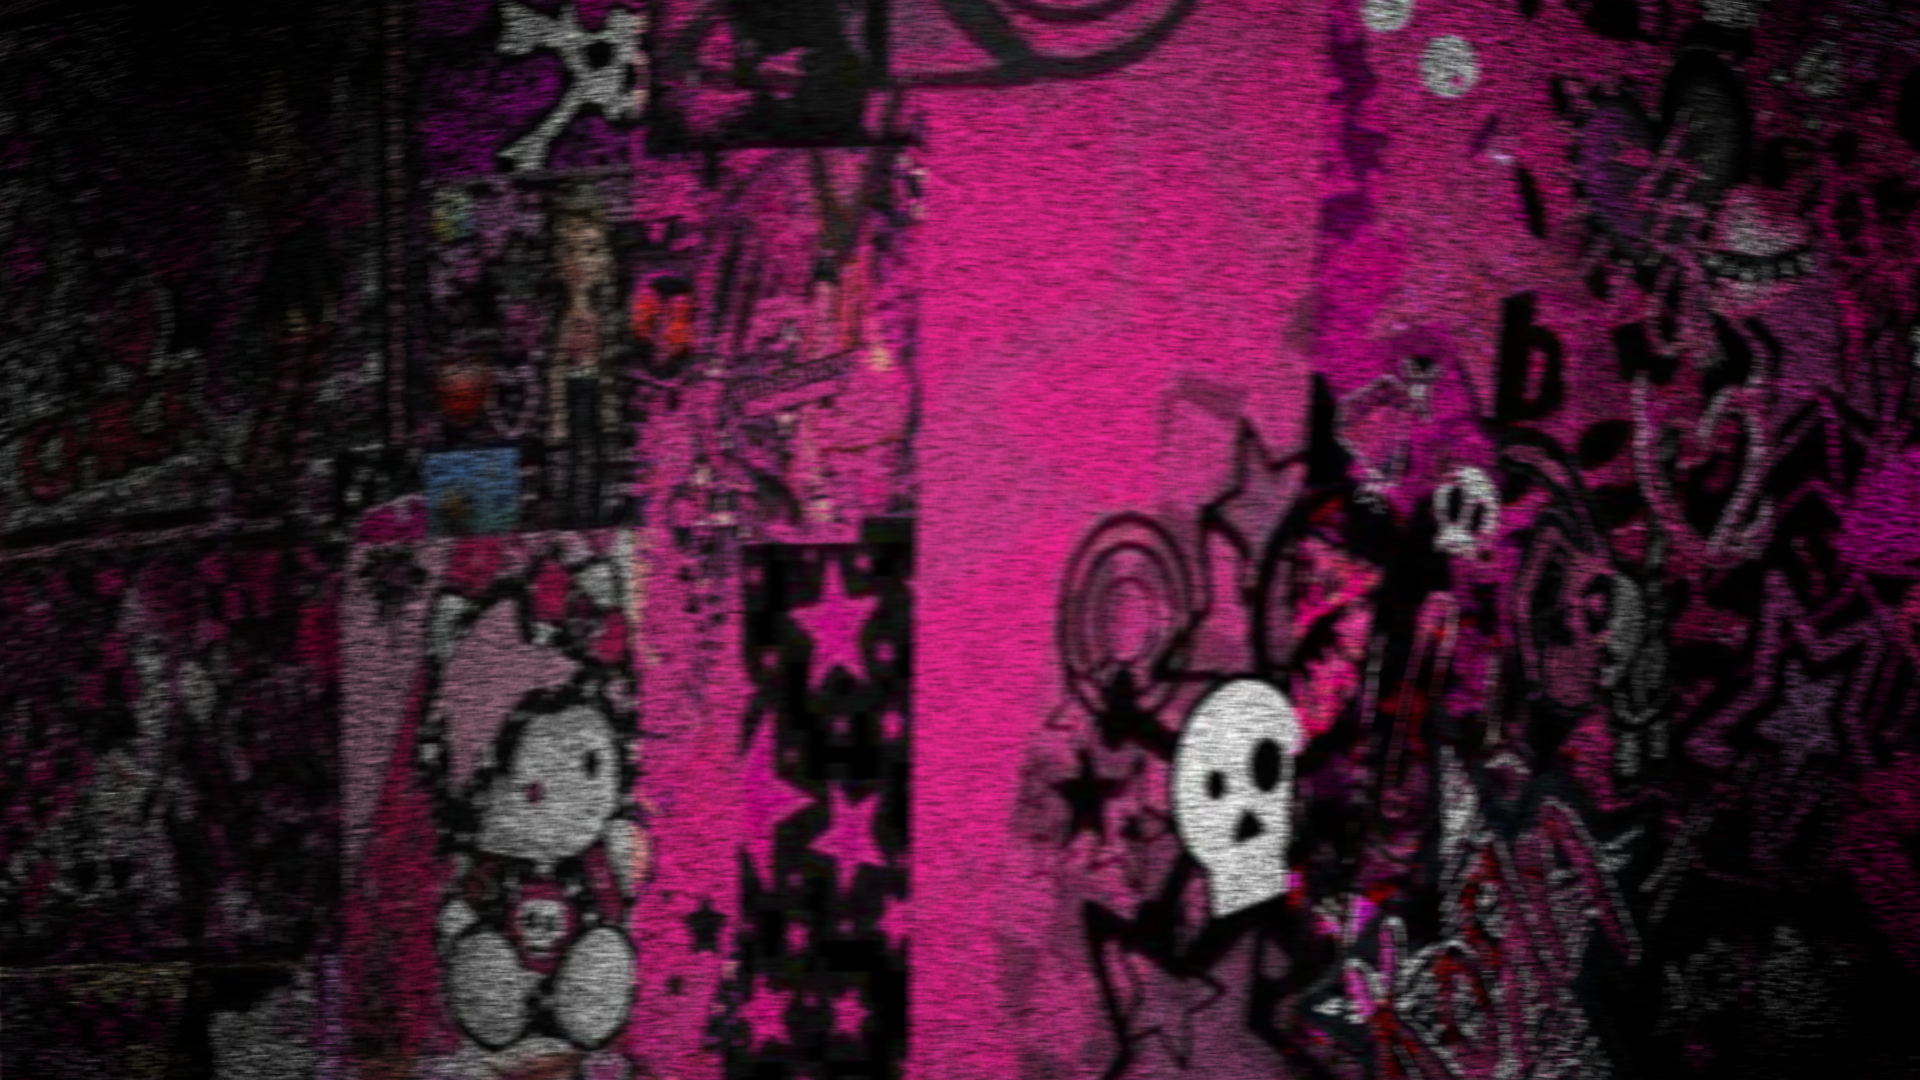
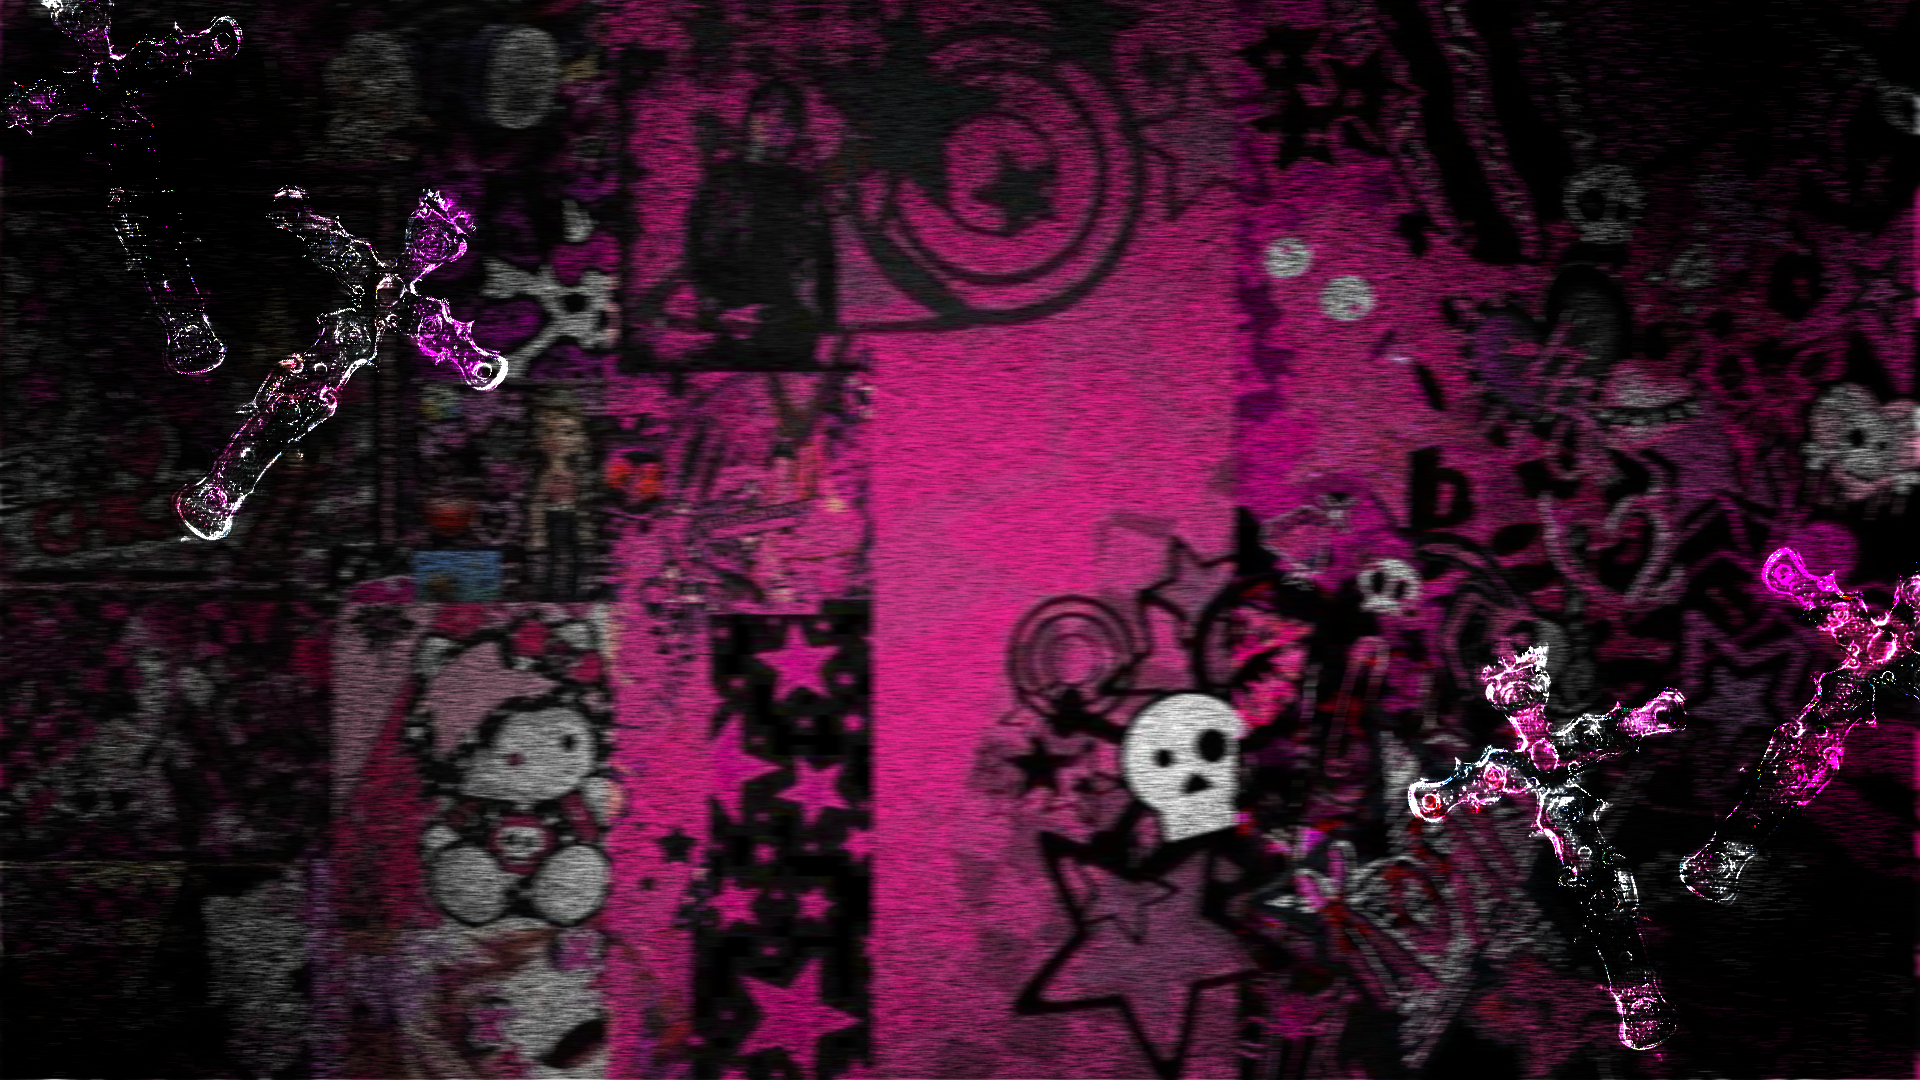
back

diff --git a/index.html b/index.html
@@ -56,10 +56,14 @@
                     <div class="container">
                        <div class="content" id="collabs">
                             <div class="collabs-menu menu">
-                                <p>sEND us your collab request</p>
-                                <p>before I eat your heart</p>
+                                <div class="collabs-text">
+                                    <p id="du">s<span>END<span id="pt">๋࣭ ๋࣭ ๋࣭ ๋࣭ ๋࣭ ๋࣭ </span></span> us your collab request</p>
+                                    <p id="dn">before I eat your <span>&nbsp;heart<span id="pt"> ๋࣭ ๋࣭ ๋࣭ ๋࣭ ๋࣭ ๋࣭ </span></span></p>
+                                </div>
 
-                                <img src="./img/collabbtn.png" class="collabs-btn" width="300" />
+                                <div class="cbtn">
+                                    <img src="./img/collabbtn.png" class="collabs-btn" width="320" />
+                                </div>
                             </div>
                        </div>
                     </div>
@@ -82,7 +86,7 @@
                 <section class="collabs">
                     <div class="container">
                        <div class="content" id="tab4">
-                            <div class="info-menu">
+                            <div class="info-menu menu">
                                 <h1>chlen</h1>
                             </div>
                        </div>

diff --git a/css/style.css b/css/style.css
@@ -1,9 +1,9 @@
 body {
-    background: url('../img/back.png') no-repeat center center fixed;
-    background-size: 100% auto;
-    -webkit-background-size: 100% auto;
-    -moz-background-size: 100% auto;
-    -o-background-size: 100% auto;
+    background: url('../img/back.png')  no-repeat center center fixed;
+    -webkit-background-size: cover;
+    -moz-background-size: cover;
+    -o-background-size: cover;
+    background-size: cover;
     cursor: url('../cursor/cursss.png') 16 16, auto; 
 }
 
@@ -68,7 +68,7 @@ body {
 .buttons-tabs button {
     margin: 10px;
     cursor: inherit;
-    font-size: 15px;
+    font-size: 17px;
 }
 
 .menu-up p {
@@ -80,6 +80,42 @@ body {
     color: #F13AF1;
 }
 
+/*COLLABS*/
+.collabs-menu {
+    padding: 35px 58px 35px 58px;
+}
+
+.collabs-text p {
+    display: flex;
+    font-size: 36px;
+    margin: -10px auto;
+}
+
+.collabs-text span {
+    display: flex;
+    flex-direction: column;
+    color: #F13AF1;
+}
+
+#pt {
+    font-size: 35px;
+    margin-left: 20px;
+    line-height: 1;
+}
+
+#du {
+    float: left;
+}
+
+#dn {
+    float: right;
+}
+
+.cbtn {
+    display: flex;
+    justify-content: center;
+    margin-top: 100px;
+}
 
 /*PENIS*/
 #openBtn {
